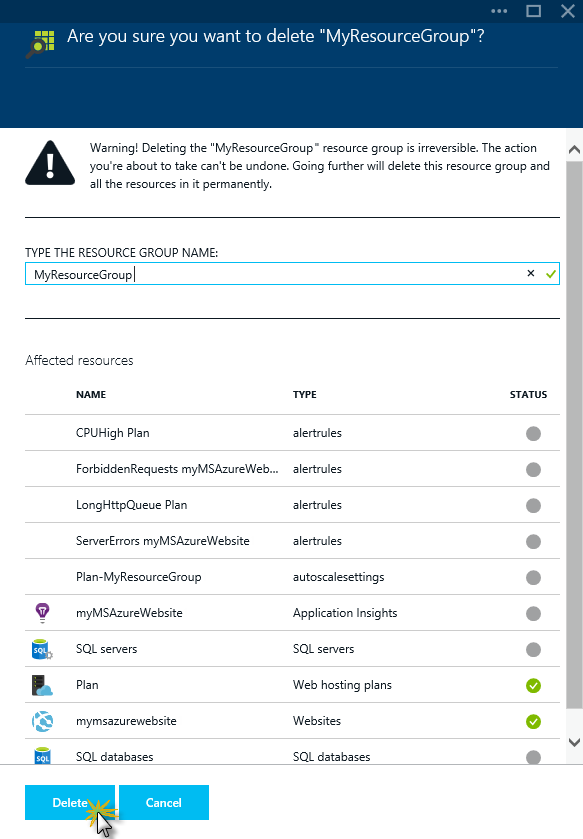
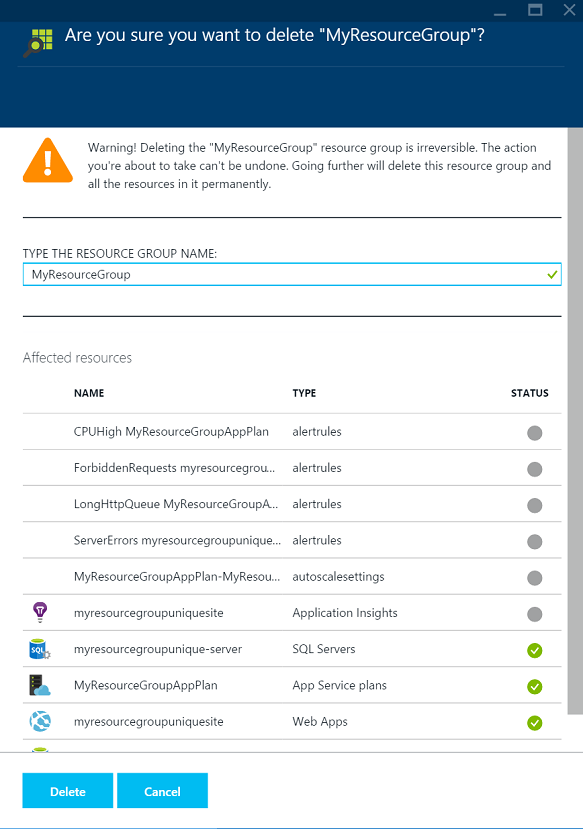
Updates on HOLs, including Working with the new portal

diff --git a/HOL/working-with-the-new-portal/README.md b/HOL/working-with-the-new-portal/README.md
@@ -11,7 +11,7 @@ The new portal allows each user to transform the portal home page (called the _S
 
 * **Integrated billing**. A new integrated billing experience enables developers and IT pros to take control of their costs and optimize their resources for maximum business advantage.
 
-* **Gallery**. A rich gallery of application and services from Microsoft and the open source community, this integrated marketplace of free and paid services enables customers to leverage the ecosystem to be more agile and productive.
+* **Marketplace**. A rich marketplace of applications and services from Microsoft and the open source community. This integrated marketplace of free and paid services enables customers to leverage the ecosystem to be more agile and productive.
 
 * **Visual Studio Online**. Microsoft announced key enhancements through the Microsoft Azure Preview Portal. This includes Team Projects supporting greater agility for application lifecycle management and the lightweight editor code-named "Monaco" for modifying and committing Web project code changes without leaving Azure. Also included is Application Insights, an analytics solution that collects telemetry data such as availability, performance and usage information to track an application's health. Visual Studio integration enables developers to surface this data from new applications with a single click.
 
@@ -19,7 +19,7 @@ The new portal allows each user to transform the portal home page (called the _S
 
 Historically, managing a resource (a user-managed entity such as a database server, database or Web App) in Microsoft Azure required you to perform operations against one resource at a time. When developing for the cloud today, we are often managing _individual resources_ (databases, storage, cloud services, virtual machines, and so on). It is left up to us, as cloud developers and IT professionals, to piece these resources together in a meaningful way and manage them over time. The Microsoft Azure Preview portal was designed to bring together all of the individual resources of an application into a consolidated view. Resource group is a new concept in Azure that serves as the lifecycle boundary for all of its resources.
 
-In this task, you will learn about the preview portal and how to create a new Web App and a SQL Server using it.
+In this task, you will learn about the preview portal and how to create a new Web App and a SQL Database using it.
 
 1. Open a browser and browse to http://portal.azure.com and log in using your credentials.
 
@@ -37,20 +37,20 @@ In this task, you will learn about the preview portal and how to create a new We
 
 	_Creating a new resource_
 
-4. A panel is displayed with different options. You can choose one of the options to create a new resource. Click the **Web + mobile** button to see all the available options.
+4. A panel is displayed with different options. You can choose one of the options to create a new resource. Click the **Web + mobile** category to see all the available options.
 
 	![Displaying every resource type](Images/displaying-resource-types.png?raw=true)
 
 	_Displaying every resource type_
 
-	On the next screen, you get all the available options for Web and Mobile Apps. Click on the Azure Marketplace. You can find ready to use templates.
+	On the next screen, you get all the available options for Web, Mobile Apps and other Azure App Service Apps. Click on the **Azure Marketplace**. You can find ready to use templates.
 
 	![Azure Marketplace](Images/web-mobile-apps-options.png?raw=true)
 
 	_Azure Marketplace_
 
 
-5. Scroll down until you find the **Web app +SQL** option and then click it.
+5. Scroll down until you find the **Web app + SQL** option and then click it.
 
 	![Selecting Web App](Images/selecting-website-sql.png?raw=true)
 
@@ -82,7 +82,7 @@ In this task, you will learn about the preview portal and how to create a new We
 
 	_Creating the App Service Plan_
 
-8. If you would like to change the Pricing Tier, click on the **Pricing Tier**. In the _Choose your pricing tier_ blade, you can choose the hosting plan that fits your needs.
+8. If you would like to change the Pricing Tier, click on the **Pricing Tier**. In the _Choose your pricing tier_ blade, you can choose the App Service plan that fits your needs.
 
 	App Service plans represent a set of features and capacity that you can share across your App Service Apps, including Web Apps. App Service plans support several pricing tiers (e.g. Free, Shared, Basic, Standard and Premium), each with its own capabilities. There are a couple of differences among these tiers. Plans in the Free and Shared tier provide sites with a shared infrastructure, meaning that your sites share resources with other customers' sites. App Service plans in the Basic, Standard and Premium tiers provider sites with a dedicated infrastructure, meaning that only the app or apps you choose to associate with this plan will be running on those resources. In this tier you can configure your App Service Plan to use one or more virtual machine instances. As we are going to use the default App Service plan, just close this blade.
 
@@ -92,7 +92,7 @@ In this task, you will learn about the preview portal and how to create a new We
 
 	_Selecting a Pricing Tier_
 
-9. Click **Ok** to go back to the **Web app** blade. You can change or leave the default location for the Web app. Click **OK** to go to the previous blade.
+9. Click **OK** to go back to the **Web app** blade. You can change or leave the default location for the Web app. Click **OK** to go to the previous blade.
 
 10. Click **Database** to change the settings for your new database.
 
@@ -105,7 +105,6 @@ In this task, you will learn about the preview portal and how to create a new We
 11. Set a name for the database, e.g. _mywebsite-db_, and click the **Server** option.
 
 	> **Note:** You can also enter in the **Pricing Tier** section and explore the different pricing tiers.
-
 
 	![Database Settings](Images/database-settings.png?raw=true)
 
@@ -131,7 +130,7 @@ In this task, you will learn about the preview portal and how to create a new We
 
 	_Created Resource Group Notification_
 
-16. You created your new resource group, which includes a Website and SQL Server database.
+16. You created your new resource group, which includes a Web App, a SQL Server and a SQL Database.
 
 	![New Resource Group Blade](Images/new-resource-group-blade.png?raw=true)
 
